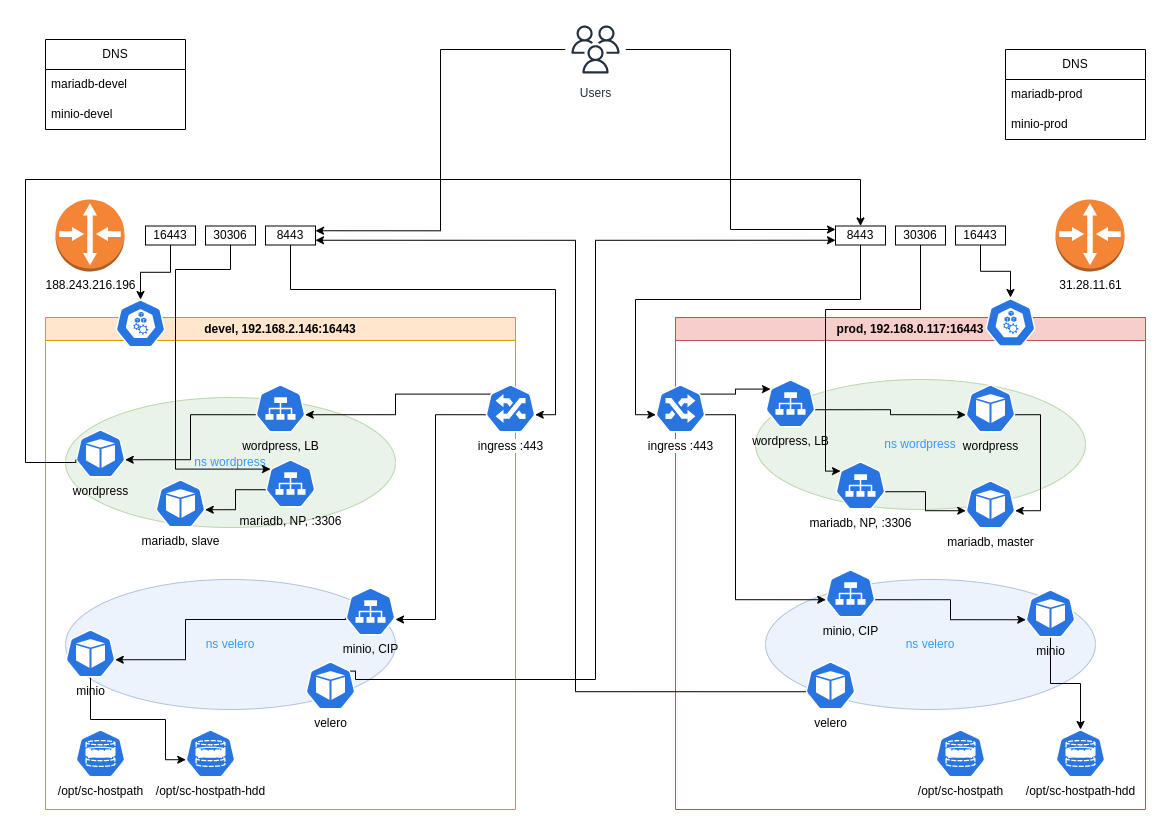
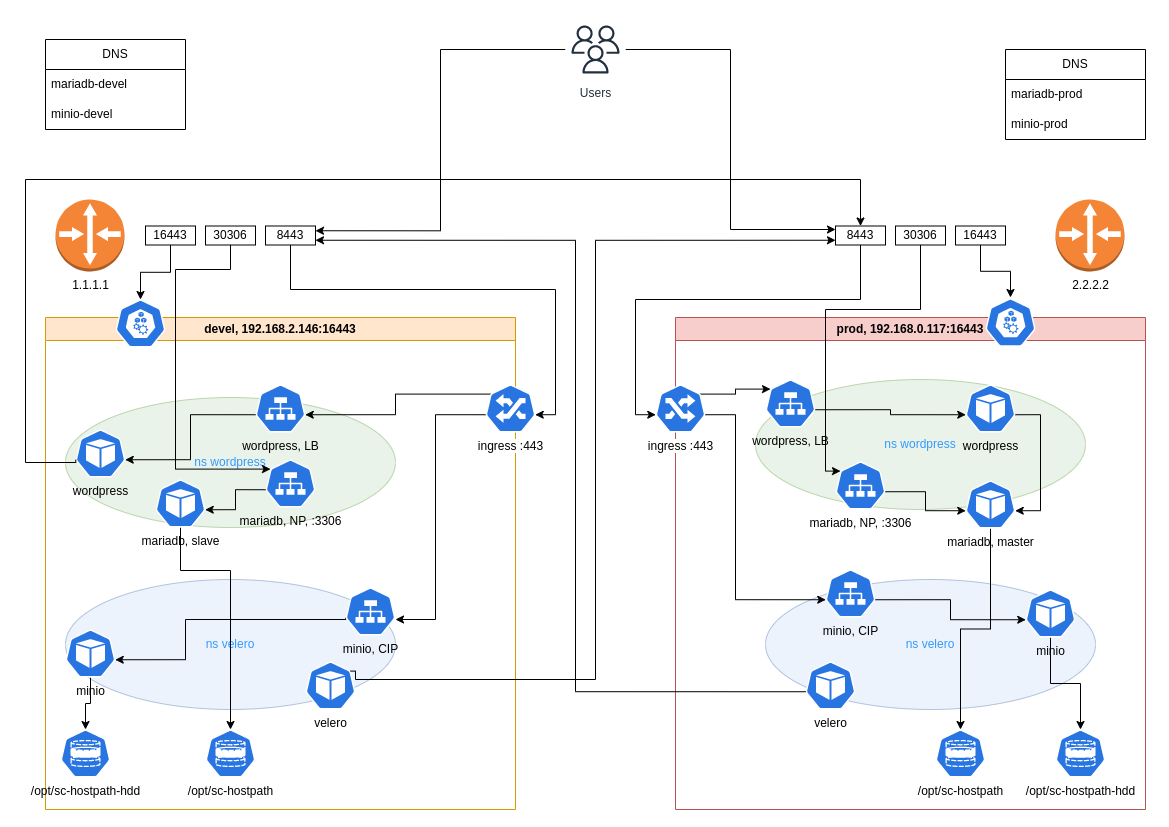
fix png

Changed region(s): [[0.0308, 0.8767, 0.2464, 0.9674], [0.0308, 0.3325, 0.1232, 0.3628], [0.9239, 0.3325, 0.9547, 0.3628]]

diff --git a/README.md b/README.md
@@ -81,8 +81,8 @@ Get cluster configs:
 - `ssh user@cluster-prod sudo microk8s kubectl config view --raw=true >> ~/.kube/config-prod`
 
 Edit configs:
-- `sed -i 's/127.0.0.1/188.243.216.196/g;s/microk8s-cluster/devel/g;s/microk8s/devel/g;s/admin/admin-devel/g' ~/.kube/config-devel`
-- `sed -i 's/127.0.0.1/31.28.11.61/g;s/microk8s-cluster/prod/g;s/microk8s/prod/g;s/admin/admin-prod/g' ~/.kube/config-prod`
+- `sed -i 's/127.0.0.1/1.1.1.1/g;s/microk8s-cluster/devel/g;s/microk8s/devel/g;s/admin/admin-devel/g' ~/.kube/config-devel`
+- `sed -i 's/127.0.0.1/2.2.2.2/g;s/microk8s-cluster/prod/g;s/microk8s/prod/g;s/admin/admin-prod/g' ~/.kube/config-prod`
 
 Merge all kubeconfig:
 - `KUBECONFIG=~/.kube/config-devel:~/.kube/config-prod kubectl config view --flatten > ~/.kube/config`
